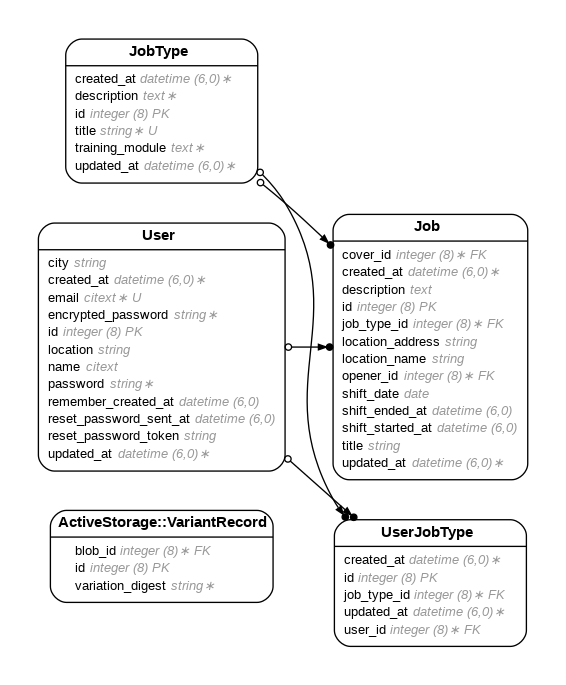
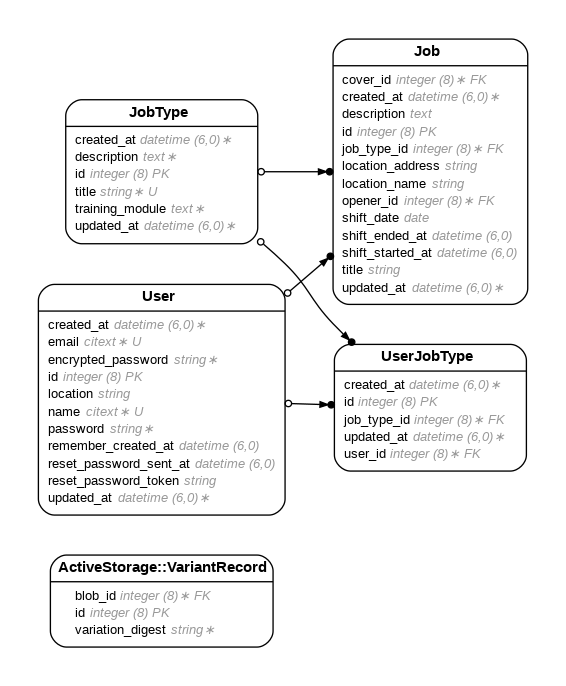
fixed form fields

diff --git a/app/controllers/users_controller.rb b/app/controllers/users_controller.rb
@@ -1,14 +1,17 @@
+# app/controllers/users_controller.rb
+
 class UsersController < ApplicationController
-  before_action :authenticate_user!, only: [:edit, :update]
-  before_action :set_user, only: [:show, :edit, :update]
-  before_action :correct_user, only: [:edit, :update]
+  before_action :authenticate_user!
+  before_action :set_user, only: [:show]
+  before_action :set_current_user, only: [:edit, :update]
+  # You can remove the :correct_user before_action if @user is always current_user
 
   def show
-    # Display user profile
+    # @user is set by set_user
   end
 
   def edit
-    # Edit user profile
+    # @user is set by set_current_user (current_user)
   end
 
   def update
@@ -25,11 +28,11 @@ class UsersController < ApplicationController
     @user = User.find(params[:id])
   end
 
-  def correct_user
-    redirect_to root_path, alert: 'You can only edit your own profile.' unless @user == current_user
+  def set_current_user
+    @user = current_user
   end
 
   def user_params
-    params.require(:user).permit(:name, :city, :profile_picture)
+    params.require(:user).permit(:name, :location, :profile_picture)
   end
 end

diff --git a/db/schema.rb b/db/schema.rb
@@ -10,7 +10,7 @@
 #
 # It's strongly recommended that you check this file into your version control system.
 
-ActiveRecord::Schema[7.1].define(version: 2024_12_01_213848) do
+ActiveRecord::Schema[7.1].define(version: 2024_12_02_120627) do
   # These are extensions that must be enabled in order to support this database
   enable_extension "citext"
   enable_extension "plpgsql"
@@ -89,7 +89,6 @@ ActiveRecord::Schema[7.1].define(version: 2024_12_01_213848) do
     t.string "location"
     t.datetime "created_at", null: false
     t.datetime "updated_at", null: false
-    t.string "city"
     t.index ["email"], name: "index_users_on_email", unique: true
     t.index ["name"], name: "index_users_on_name", unique: true
     t.index ["reset_password_token"], name: "index_users_on_reset_password_token", unique: true

diff --git a/app/controllers/application_controller.rb b/app/controllers/application_controller.rb
@@ -1,11 +1,11 @@
+
 class ApplicationController < ActionController::Base
-  skip_forgery_protection
   before_action :configure_permitted_parameters, if: :devise_controller?
 
   protected
 
   def configure_permitted_parameters
-    attributes = [:name, :city, :profile_picture]
+    attributes = [:name, :location, :profile_picture]
     devise_parameter_sanitizer.permit(:sign_up, keys: attributes)
     devise_parameter_sanitizer.permit(:account_update, keys: attributes)
   end

diff --git a/app/models/user.rb b/app/models/user.rb
@@ -3,7 +3,6 @@
 # Table name: users
 #
 #  id                     :bigint           not null, primary key
-#  city                   :string
 #  email                  :citext           default(""), not null
 #  encrypted_password     :string           default(""), not null
 #  location               :string

diff --git a/app/controllers/home_controller.rb b/app/controllers/home_controller.rb
@@ -1,0 +1,11 @@
+# app/controllers/home_controller.rb
+
+class HomeController < ApplicationController
+  def index
+    if user_signed_in?
+      redirect_to user_path(current_user)
+    else
+      redirect_to new_user_session_path
+    end
+  end
+end

diff --git a/db/migrate/20241202120627_remove_city_from_users.rb b/db/migrate/20241202120627_remove_city_from_users.rb
@@ -1,0 +1,5 @@
+class RemoveCityFromUsers < ActiveRecord::Migration[7.1]
+  def change
+    remove_column :users, :city, :string
+  end
+end

diff --git a/config/routes.rb b/config/routes.rb
@@ -1,5 +1,5 @@
 Rails.application.routes.draw do
-  root "jobs#index"
+ root 'home#index'
 
   devise_for :users
 
